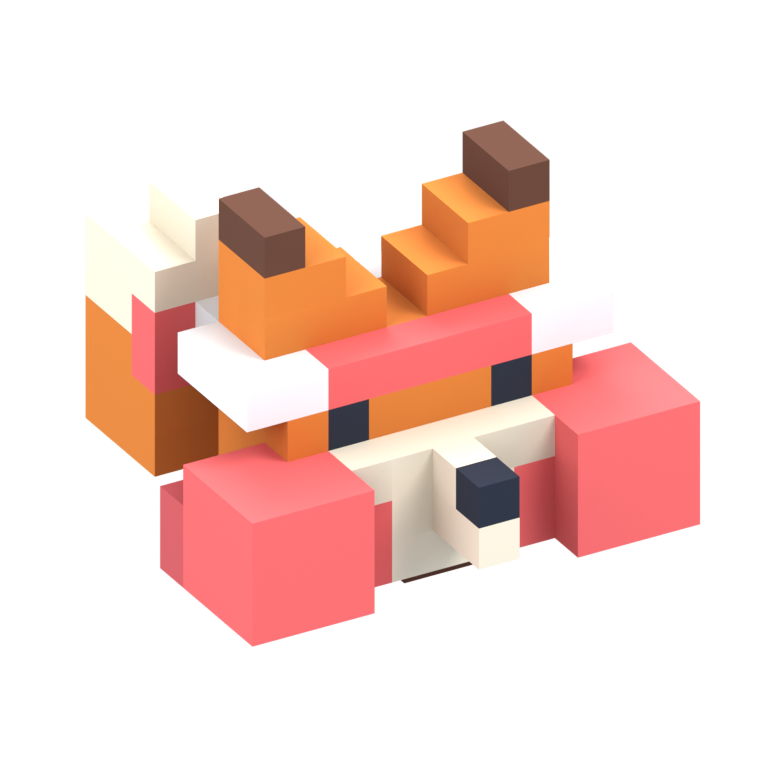
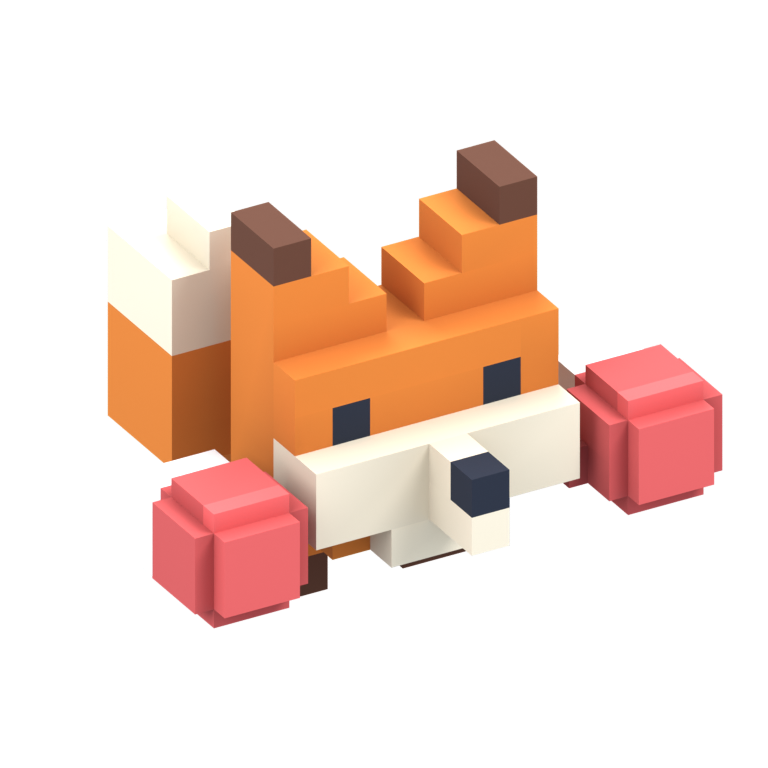
feat(art): give fox floating detailed boxing gloves
Built-with: ChatGPT Work (GPT-6 Astra)

Changed region(s): [[0.0938, 0.1562, 0.9688, 0.8438]]

diff --git a/tests/unit/brawler.test.ts b/tests/unit/brawler.test.ts
@@ -6,14 +6,19 @@ import { ANIMALS } from '../../shared/config';
 import { Outlines, outlinedAt } from '../../client/src/game/outlines';
 
 describe('Street Brawl assets and outlines', () => {
-  it.each(ANIMALS)('%s exposes separate tintable gloves and headband stripe', async name => {
+  it.each(ANIMALS)('%s exposes independently tintable gear', async name => {
     const bytes = readFileSync(`client/public/models/${name}.glb`);
     const { scene } = await new GLTFLoader().parseAsync(bytes.buffer.slice(bytes.byteOffset, bytes.byteOffset + bytes.byteLength), '');
-    for (const part of ['glove_left', 'glove_right', 'headband_stripe', 'headband']) {
+    const finalGear = !!scene.getObjectByName(`${name}_glove_left_handle`);
+    for (const part of finalGear ? ['glove_left', 'glove_right', 'cuff_left', 'cuff_right'] : ['glove_left', 'glove_right', 'headband_stripe', 'headband']) {
       const mesh = scene.getObjectByName(`${name}_${part}`) as Mesh;
       expect(mesh.isMesh).toBe(true);
-      expect(mesh.userData.player_color === true).toBe(part !== 'headband');
+      expect(mesh.userData.player_color === true).toBe(part.startsWith('glove_') || part === 'headband_stripe');
       expect(mesh.geometry.getAttribute('color')).toBeDefined();
+    }
+    if (finalGear) {
+      expect(scene.getObjectByName(`${name}_headband`)).toBeUndefined();
+      for (const side of ['left', 'right']) expect(scene.getObjectByName(`${name}_glove_${side}_handle`)!.children).toHaveLength(2);
     }
   });
   it('limits outline categories at each quality tier', () => {
